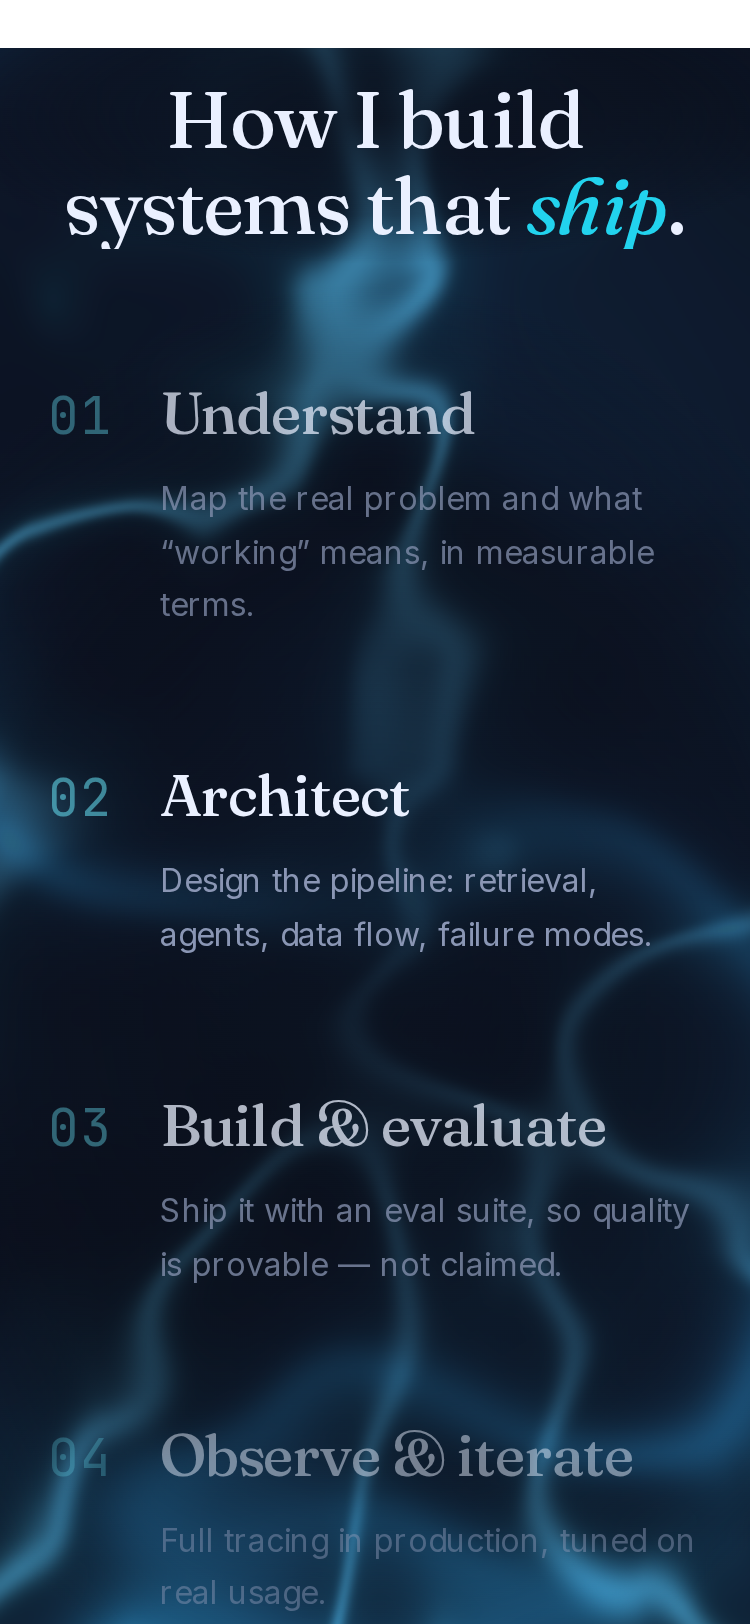
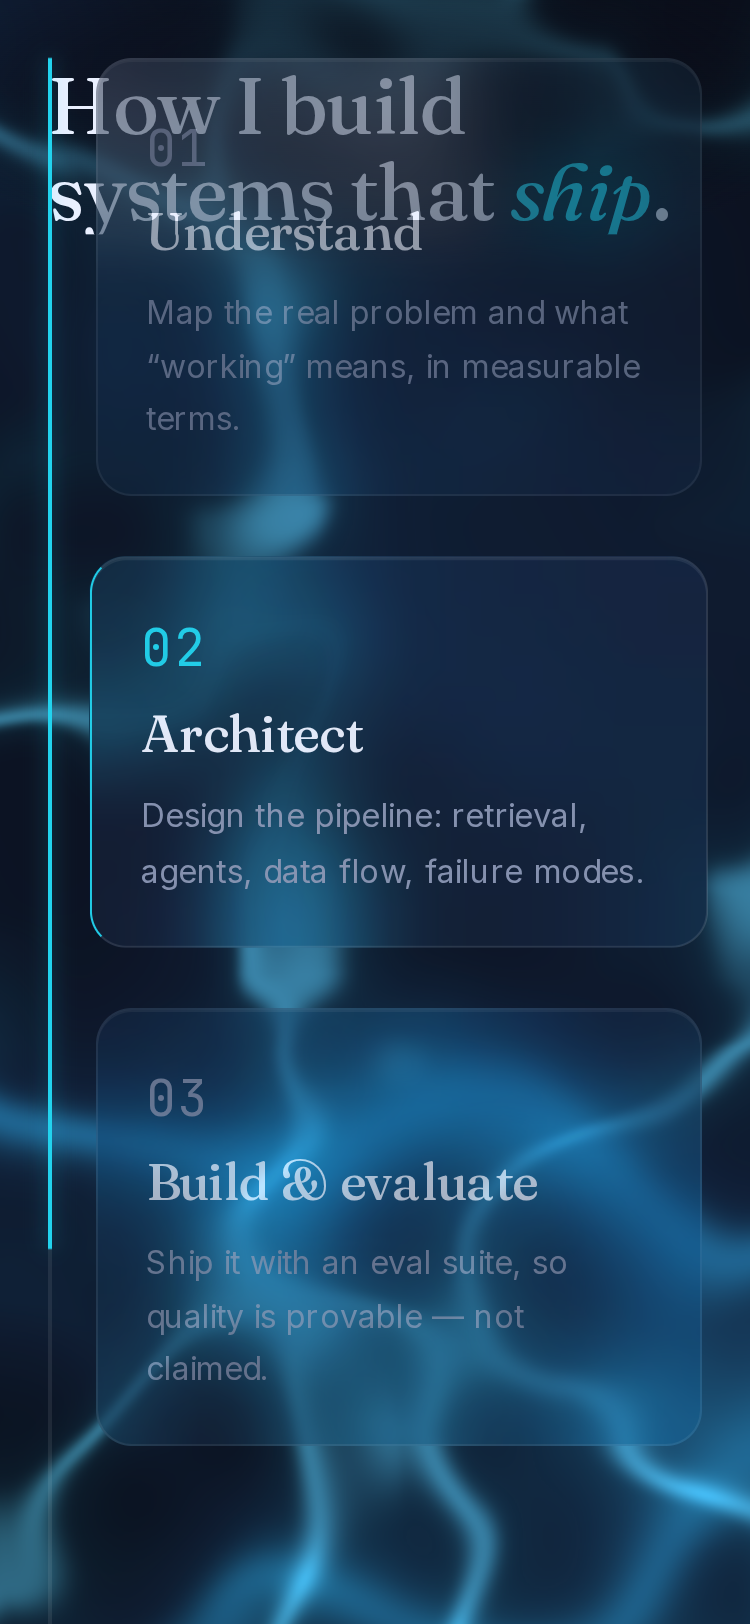
refactor(portfolio-dark): How I Build — sticky two-column redesign
- LEFT: kicker + Fraunces headline (cyan "ship") in a CSS-sticky
  column that stays pinned while the steps scroll past
- RIGHT: four steps in subtle glass panels; each enters once with
  fade + 30px rise + slight scale; the panel nearest viewport center
  is "active" — full opacity, scale(1.02), cyan number, thin cyan
  left border — while others dim continuously toward 0.4 by center
  distance (measured per scroll frame, page-end safe)
- Thin vertical progress line down the column fills cyan (with glow)
  scrubbed across the steps stack
- Fix found in verification: the active/dim tracker only fires on
  scroll, but panels join tracking when their entrance completes —
  update() now re-runs on each entrance completion
- reduced-motion: two columns, everything visible, line full, no
  scrub/scale/active states; 375px: single column, sticky off,
  active highlight still tracks the centered step, no overflow

Verified: step2-centered probe — active [false,true,false,false],
opacities [0.64, 0.96, 0.74, 0.43]; sticky computed on desktop,
relative on mobile; tsc + eslint clean.

diff --git a/src/components/portfolio-dark/DarkHowIBuild.tsx b/src/components/portfolio-dark/DarkHowIBuild.tsx
@@ -2,7 +2,7 @@
 
 import { useRef } from "react";
 import Reveal from "@/components/portfolio/Reveal";
-import { gsap, ScrollTrigger, useGSAP } from "@/lib/gsap";
+import { gsap, ScrollTrigger, useGSAP, EASE } from "@/lib/gsap";
 
 const STEPS = [
   {
@@ -36,22 +36,34 @@ const mono: React.CSSProperties = {
 export default function DarkHowIBuild() {
   const scope = useRef<HTMLElement>(null);
 
-  // Focus-fade: opacity literally mapped to each step's distance from the
-  // viewport center — 1.0 centered, dimming to 0.35 at the edges. Measured
-  // per scroll frame rather than via scrub windows, which get clamped and
-  // misbehave for steps near the end of the page.
   useGSAP(
     () => {
       const mm = gsap.matchMedia();
 
       mm.add("(prefers-reduced-motion: no-preference)", () => {
-        const steps = gsap.utils.toArray<HTMLElement>(".hib-step");
+        const panels = gsap.utils.toArray<HTMLElement>(".hib-panel");
+        const entered: boolean[] = panels.map(() => false);
+
+        // active tracking + continuous center-distance dimming
+        let active = -1;
         const update = () => {
           const mid = window.innerHeight / 2;
-          for (const step of steps) {
-            const r = step.getBoundingClientRect();
-            const d = Math.min(1, Math.abs(r.top + r.height / 2 - mid) / mid);
-            step.style.opacity = (1 - d * 0.65).toFixed(3);
+          let best = -1;
+          let bestD = Infinity;
+          panels.forEach((panel, i) => {
+            if (!entered[i]) return;
+            const r = panel.getBoundingClientRect();
+            const d = Math.abs(r.top + r.height / 2 - mid);
+            if (d < bestD) {
+              bestD = d;
+              best = i;
+            }
+            const dn = Math.min(1, d / mid);
+            panel.style.opacity = Math.max(0.4, 1 - dn * 0.6).toFixed(3);
+          });
+          if (best !== active) {
+            active = best;
+            panels.forEach((panel, i) => panel.classList.toggle("is-active", i === best));
           }
         };
         update();
@@ -62,6 +74,50 @@ export default function DarkHowIBuild() {
           onUpdate: update,
         });
         ScrollTrigger.addEventListener("refresh", update);
+
+        // one-by-one entrance: fade + 30px rise + slight scale. Each panel
+        // joins active/dim tracking the moment its entrance completes —
+        // update() is re-run there because it otherwise only fires on scroll.
+        panels.forEach((panel, i) => {
+          gsap.set(panel, { autoAlpha: 0, y: 30, scale: 0.97 });
+          ScrollTrigger.create({
+            trigger: panel,
+            start: "clamp(top 88%)",
+            once: true,
+            onEnter: () =>
+              gsap.to(panel, {
+                autoAlpha: 1,
+                y: 0,
+                scale: 1,
+                duration: 0.7,
+                ease: EASE,
+                onComplete: () => {
+                  entered[i] = true;
+                  // hand transform control to the .is-active CSS class
+                  gsap.set(panel, { clearProps: "transform" });
+                  update();
+                },
+              }),
+          });
+        });
+
+        // progress line fills cyan as you step through the process
+        gsap.fromTo(
+          ".hib-line-fill",
+          { scaleY: 0 },
+          {
+            scaleY: 1,
+            ease: "none",
+            transformOrigin: "top center",
+            scrollTrigger: {
+              trigger: ".hib-steps",
+              start: "clamp(top 60%)",
+              end: "clamp(bottom 50%)",
+              scrub: true,
+            },
+          }
+        );
+
         return () => {
           ScrollTrigger.removeEventListener("refresh", update);
           st.kill();
@@ -69,7 +125,8 @@ export default function DarkHowIBuild() {
       });
 
       mm.add("(prefers-reduced-motion: reduce)", () => {
-        gsap.set(".hib-step", { opacity: 1 });
+        gsap.set(".hib-panel", { autoAlpha: 1, y: 0, scale: 1, opacity: 1 });
+        gsap.set(".hib-line-fill", { scaleY: 1 });
       });
     },
     { scope }
@@ -85,75 +142,87 @@ export default function DarkHowIBuild() {
       style={{ paddingBlock: "clamp(6rem, 14vh, 10rem)" }}
     >
       <div data-chapter-inner="" className="mx-auto w-full max-w-[80rem] px-6 lg:px-10">
-        {/* Headline block — centered, scrim keeps it crisp over the fluid */}
-        <div className="relative mx-auto max-w-[56rem] text-center">
-          <div
-            aria-hidden="true"
-            className="absolute -z-10"
-            style={{
-              inset: "-12% -25%",
-              background:
-                "radial-gradient(ellipse 60% 60% at 50% 50%, rgba(10, 14, 26, 0.85) 0%, rgba(10, 14, 26, 0.5) 50%, transparent 75%)",
-            }}
-          />
-          <Reveal>
-            <p className="uppercase" style={mono}>
-              03 — How I Build
-            </p>
-            <h2
-              id="how-heading"
-              className="mx-auto mt-[var(--space-6)] max-w-[24ch]"
-              style={{
-                fontFamily: "var(--font-display)",
-                fontSize: "var(--step-6)",
-                fontWeight: 480,
-                lineHeight: 1.08,
-                letterSpacing: "-0.015em",
-                color: "var(--text)",
-                textWrap: "balance",
-              }}
+        <div className="grid grid-cols-1 gap-y-[var(--space-12)] lg:grid-cols-12 lg:gap-x-[var(--space-8)]">
+          {/* LEFT — sticky headline column */}
+          <div className="lg:col-span-5">
+            <div
+              className="relative lg:sticky"
+              style={{ top: "calc(var(--nav-height) + var(--space-16))" }}
             >
-              How I build systems that{" "}
-              <em style={{ color: "var(--accent)", fontWeight: 440 }}>ship</em>.
-            </h2>
-          </Reveal>
-        </div>
-
-        {/* Process — vertical sequence, no cards; focus-fade carries emphasis */}
-        <div className="relative mx-auto mt-[var(--space-16)] max-w-[46rem] lg:mt-[var(--space-24)]">
-          {/* soft scrim column behind the steps for crispness over the fluid */}
-          <div
-            aria-hidden="true"
-            className="absolute -z-10"
-            style={{
-              inset: "-8% -30%",
-              background:
-                "radial-gradient(ellipse 70% 62% at 50% 50%, rgba(10, 14, 26, 0.88) 0%, rgba(10, 14, 26, 0.55) 55%, transparent 80%)",
-            }}
-          />
-          <ol className="flex flex-col gap-[var(--space-16)] lg:gap-[var(--space-24)]">
-            {STEPS.map((s, i) => (
-              <li
-                key={s.title}
-                className="hib-step grid grid-cols-[auto_1fr] items-baseline gap-x-[var(--space-6)] lg:gap-x-[var(--space-8)]"
-              >
-                <span
-                  aria-hidden="true"
+              <div
+                aria-hidden="true"
+                className="absolute -z-10"
+                style={{
+                  inset: "-15% -20%",
+                  background:
+                    "radial-gradient(ellipse 65% 60% at 50% 50%, rgba(10, 14, 26, 0.85) 0%, rgba(10, 14, 26, 0.5) 55%, transparent 78%)",
+                }}
+              />
+              <Reveal>
+                <p className="uppercase" style={mono}>
+                  03 — How I Build
+                </p>
+                <h2
+                  id="how-heading"
+                  className="mt-[var(--space-6)] max-w-[14ch]"
                   style={{
-                    fontFamily: "var(--font-label)",
-                    fontSize: "var(--step-3)",
-                    color: "var(--accent-ink)",
-                    opacity: 0.55,
-                    letterSpacing: "0.04em",
+                    fontFamily: "var(--font-display)",
+                    fontSize: "var(--step-6)",
+                    fontWeight: 480,
+                    lineHeight: 1.08,
+                    letterSpacing: "-0.015em",
+                    color: "var(--text)",
+                    textWrap: "balance",
                   }}
                 >
-                  0{i + 1}
-                </span>
-                <div>
+                  How I build systems that{" "}
+                  <em style={{ color: "var(--accent)", fontWeight: 440 }}>ship</em>.
+                </h2>
+              </Reveal>
+            </div>
+          </div>
+
+          {/* RIGHT — steps + progress line */}
+          <div className="hib-steps relative pl-[var(--space-6)] lg:col-span-6 lg:col-start-7">
+            {/* progress line: track + cyan scroll-fill */}
+            <div
+              aria-hidden="true"
+              className="absolute bottom-0 left-0 top-0 w-[2px]"
+              style={{ background: "rgba(255, 255, 255, 0.08)" }}
+            />
+            <div
+              aria-hidden="true"
+              className="hib-line-fill absolute bottom-0 left-0 top-0 w-[2px]"
+              style={{
+                background: "var(--accent)",
+                boxShadow: "0 0 12px rgba(34, 211, 238, 0.45)",
+                transform: "scaleY(0)",
+              }}
+            />
+            <ol className="flex flex-col gap-[var(--space-8)]">
+              {STEPS.map((s, i) => (
+                <li
+                  key={s.title}
+                  data-reveal=""
+                  className="hib-panel glass rounded-2xl"
+                  style={{ padding: "clamp(1.5rem, 4vw, 2.25rem)" }}
+                >
+                  <span
+                    aria-hidden="true"
+                    className="hib-num"
+                    style={{
+                      fontFamily: "var(--font-label)",
+                      fontSize: "var(--step-2)",
+                      letterSpacing: "0.04em",
+                    }}
+                  >
+                    0{i + 1}
+                  </span>
                   <h3
+                    className="mt-[var(--space-2)]"
                     style={{
                       fontFamily: "var(--font-display)",
-                      fontSize: "var(--step-4)",
+                      fontSize: "var(--step-3)",
                       fontWeight: 480,
                       lineHeight: 1.15,
                       letterSpacing: "-0.015em",
@@ -168,15 +237,15 @@ export default function DarkHowIBuild() {
                       fontSize: "var(--step-0)",
                       lineHeight: 1.65,
                       color: "var(--muted)",
-                      maxWidth: "52ch",
+                      maxWidth: "48ch",
                     }}
                   >
                     {s.description}
                   </p>
-                </div>
-              </li>
-            ))}
-          </ol>
+                </li>
+              ))}
+            </ol>
+          </div>
         </div>
       </div>
     </section>

diff --git a/src/app/globals.css b/src/app/globals.css
@@ -414,6 +414,27 @@
   }
 }
 
+/* How I Build — step panels: active = cyan number, thin cyan left border,
+   slight scale-up. Transform via class works because the entrance tween
+   clears its inline transform on complete. */
+.portfolio-dark .hib-panel {
+  border-left: 2px solid transparent;
+  transition:
+    border-color var(--dur-ui) var(--ease),
+    transform var(--dur-ui) var(--ease);
+}
+.portfolio-dark .hib-panel .hib-num {
+  color: var(--muted);
+  transition: color var(--dur-ui) var(--ease);
+}
+.portfolio-dark .hib-panel.is-active {
+  border-left-color: var(--accent);
+  transform: scale(1.02);
+}
+.portfolio-dark .hib-panel.is-active .hib-num {
+  color: var(--accent);
+}
+
 /* Work cards share the shine, staggered so they never flash in sync */
 .portfolio-dark .work-card {
   position: relative;
